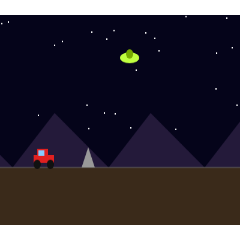
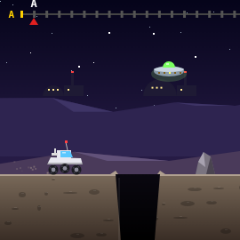
El Totterreny: paisatge de debò i un cotxe lunar amb sis rodes
Era el joc que es veia més pobre: uns triangles llisos de fons, un terra
d'un sol color i un cotxe fet de dos rectangles i dues rodes.

Ara el paisatge va per capes que es mouen a velocitats diferents: la
Terra al cel, una base amb cúpules a l'horitzó i dues serralades, i el
terra de la lluna amb pedretes i clots que passen. Els clots són foscos
i amb vora, les roques tenen cares, les mines fan pampallugues, el plat
volador té cúpula i llums, i les explosions són boles de foc. El cotxe
té sis rodes que boten, cabina, canó i antena, i aixeca pols. Les mides
de tot el que et pot matar són les mateixes d'abans.

Claude-Session: https://claude.ai/code/session_01KrPPCHVvtTXjrWEZj9T731

diff --git a/moon_patrol.html b/moon_patrol.html
@@ -120,16 +120,16 @@ function hideMsg(){document.getElementById('msg').style.display='none'}
 
 // ===== PALETES: cada control de pas canvia una mica el paisatge =====
 const PALETES=[
-  {sky:'#05041a',hill:'#241a3a',ground:'#3a2a1a'},
-  {sky:'#0a0326',hill:'#2a1440',ground:'#332018'},
-  {sky:'#000814',hill:'#152840',ground:'#28241a'},
-  {sky:'#140314',hill:'#3a1838',ground:'#301c22'},
+  {sky:'#05041a',horitzo:'#2a1e4a',hill:'#2e2450',hillLlum:'#3e3466',hill2:'#4a3a5a',hill2Llum:'#62527a',base:'#1e1a34',ground:'#7a6a5a',groundFosc:'#3a2e26',vora:'#b0a090'},
+  {sky:'#0a0326',horitzo:'#3a1a4a',hill:'#3a1a50',hillLlum:'#4e2a68',hill2:'#5a2a5a',hill2Llum:'#7a4278',base:'#22143a',ground:'#806058',groundFosc:'#3a2622',vora:'#c09888'},
+  {sky:'#000814',horitzo:'#123050',hill:'#183450',hillLlum:'#24486a',hill2:'#2a4a5a',hill2Llum:'#3e6478',base:'#10223a',ground:'#6a6e70',groundFosc:'#2a2e30',vora:'#a8b0b0'},
+  {sky:'#140314',horitzo:'#4a1a2a',hill:'#4a1a3a',hillLlum:'#622a50',hill2:'#6a2a3a',hill2Llum:'#8a4252',base:'#2a1022',ground:'#8a6050',groundFosc:'#3e2420',vora:'#c89880'},
 ];
 function paleta(){return PALETES[checkpoint%PALETES.length]}
 
 function makeStars(){
   stars=[];
-  for(let i=0;i<50;i++)stars.push({x:Math.random()*W,y:Math.random()*(GROUND_Y-40),tw:Math.random()*2000});
+  for(let i=0;i<90;i++)stars.push({x:Math.random()*W,y:Math.random()*(GROUND_Y-40),tw:Math.random()*2000});
 }
 
 // ===== TERRENY =====
@@ -359,31 +359,97 @@ function drawRecorregut(){
   x.fillStyle='#777';x.fillText('CURSA '+cursa,W-6,H-6);
   x.textAlign='left';
 }
-function drawBuggy(alt){
-  const gx=BUGGY_X,gy=GROUND_Y-alt;
-  x.fillStyle=invulnT>0&&Math.floor(invulnT/110)%2===0?'#844':'#e02020';
-  x.fillRect(gx,gy-16,34,10);
-  x.fillRect(gx+6,gy-24,18,10);
-  x.fillStyle='#8cf';x.fillRect(gx+8,gy-22,10,7);
-  x.fillStyle='#111';
-  x.beginPath();x.arc(gx+6,gy-4,6,0,7);x.fill();
-  x.beginPath();x.arc(gx+28,gy-4,6,0,7);x.fill();
+// ===== DIBUIX =====
+// El paisatge va per capes que es mouen a velocitats diferents (com més
+// lluny, més a poc a poc): la Terra al cel, una base amb cúpules a
+// l'horitzó, dues serralades i el terra de la lluna. Les capes de lluny es
+// pinten un sol cop en llenços de 960 px i després només s'enganxen.
+// Abans hi havia uns triangles llisos i un cotxe fet de dos rectangles.
+function capa(alt,fes){const c=document.createElement('canvas');c.width=960;c.height=alt;fes(c.getContext('2d'));return c}
+function serralada(g,alt,base,pics,col,llum,llavor){
+  let s=llavor;const r=()=>(s=(s*16807)%2147483647)/2147483647;
+  const pts=[];for(let i=0;i<=pics;i++)pts.push([i*960/pics,alt-base-r()*(alt-base-6)]);
+  pts[pics][1]=pts[0][1];                                     // que enganxi amb la del costat
+  g.fillStyle=col;g.beginPath();g.moveTo(0,alt);
+  for(const[px,py]of pts)g.lineTo(px,py);
+  g.lineTo(960,alt);g.fill();
+  // la cara il·luminada de cada pic
+  g.fillStyle=llum;
+  for(let i=0;i<pics;i++){const[a,b]=pts[i],[c,d]=pts[i+1];if(d>b){g.beginPath();g.moveTo(a,b);g.lineTo(c,d);g.lineTo(a+(c-a)*.35,Math.max(b,d));g.fill()}}
 }
+const CAPES={};
+function capes(pal){
+  const k=pal.sky;if(CAPES[k])return CAPES[k];
+  return CAPES[k]={
+    base:capa(40,g=>{                                         // la base lunar, molt lluny
+      for(let i=0;i<8;i++){const bx=40+i*120,r=10+(i*7)%12;
+        g.fillStyle=pal.base;g.beginPath();g.arc(bx,40,r,Math.PI,0);g.fill();g.fillRect(bx+r,28,22,12);g.fillRect(bx+r+8,14,3,26);
+        g.fillStyle='#ffe890';for(let j=0;j<3;j++)g.fillRect(bx-r/2+j*5,36-r/3,2,2);g.fillRect(bx+r+4,32,2,2);
+        g.fillStyle='#ff4040';g.fillRect(bx+r+8,12,3,2)}
+    }),
+    lluny:capa(90,g=>serralada(g,90,10,14,pal.hill,pal.hillLlum,7)),
+    prop:capa(60,g=>serralada(g,60,4,9,pal.hill2,pal.hill2Llum,31)),
+  };
+}
+function enganxa(img,despl,y){const o=-((despl%960)+960)%960;x.drawImage(img,Math.round(o),y);x.drawImage(img,Math.round(o)+960,y)}
+
+// el cotxe lunar: sis rodes (tres de cada costat, se'n veuen tres), cada una
+// amb la seva suspensió, la cabina de vidre i el canó a dalt
+function drawRover(gx,gy,cos,vidre,t,mirant=1,pampalluga=false){
+  x.save();x.translate(gx+17,0);x.scale(mirant,1);x.translate(-(gx+17),0);
+  const rodes=[4,17,30];
+  // les rodes, que boten cadascuna pel seu compte
+  const bot=rodes.map((r,i)=>t?Math.max(0,Math.sin(t*.025+i*2.1))*1.6:0);
+  x.strokeStyle='#6a6a78';x.lineWidth=2;
+  rodes.forEach((r,i)=>{x.beginPath();x.moveTo(gx+r,gy-6-bot[i]);x.lineTo(gx+r,gy-12);x.stroke()});
+  x.fillStyle=pampalluga?'#844':cos;
+  x.beginPath();x.moveTo(gx-3,gy-11);x.lineTo(gx+37,gy-11);x.lineTo(gx+35,gy-18);x.lineTo(gx+1,gy-19);x.closePath();x.fill();
+  x.fillStyle='rgba(0,0,0,.25)';x.fillRect(gx-3,gy-13,40,2);
+  // la cabina
+  x.fillStyle=pampalluga?'#a66':cos;x.fillRect(gx+8,gy-27,16,9);
+  x.fillStyle=vidre;x.beginPath();x.moveTo(gx+12,gy-26);x.lineTo(gx+23,gy-26);x.lineTo(gx+26,gy-19);x.lineTo(gx+12,gy-19);x.fill();
+  x.fillStyle='rgba(255,255,255,.6)';x.fillRect(gx+14,gy-25,4,1.5);
+  // el canó i l'antena
+  x.fillStyle='#ddd';x.fillRect(gx+2,gy-24,7,3);x.fillRect(gx+5,gy-29,2,6);
+  x.strokeStyle='#bbb';x.lineWidth=1;x.beginPath();x.moveTo(gx+20,gy-27);x.lineTo(gx+18,gy-36);x.stroke();
+  x.fillStyle=Math.floor(performance.now()/300)%2?'#ff4040':'#ffd040';x.fillRect(gx+17,gy-38,3,3);
+  // les rodes
+  rodes.forEach((r,i)=>{const ry=gy-5-bot[i];
+    x.fillStyle='#1a1a20';x.beginPath();x.arc(gx+r,ry,5.5,0,7);x.fill();
+    x.fillStyle='#8a8a98';x.beginPath();x.arc(gx+r,ry,2.4,0,7);x.fill();
+    const a=t*.04;x.fillStyle='#3a3a44';for(let k=0;k<4;k++)x.fillRect(gx+r+Math.cos(a+k*1.57)*4-1,ry+Math.sin(a+k*1.57)*4-1,2,2)});
+  x.restore();
+}
+function drawBuggy(alt){
+  drawRover(BUGGY_X,GROUND_Y-alt,'#e8e8f0','#5ac8ff',alt?0:playerZ,1,invulnT>0&&Math.floor(invulnT/110)%2===0);
+}
+let polsMP=[];
 function draw(){
-  const pal=paleta();
-  x.fillStyle=pal.sky;x.fillRect(0,0,W,H);
+  const pal=paleta(),ara=performance.now(),C=capes(pal);
+  // el cel
+  const gc=x.createLinearGradient(0,0,0,GROUND_Y);gc.addColorStop(0,pal.sky);gc.addColorStop(1,pal.horitzo);
+  x.fillStyle=gc;x.fillRect(0,0,W,GROUND_Y);
   for(const s of stars){
-    if(Math.sin((performance.now()+s.tw)/420)>-.3){x.fillStyle='#fff';x.fillRect(s.x|0,s.y|0,2,2)}
+    if(Math.sin((ara+s.tw)/420)>-.3){x.fillStyle=s.tw>1500?'#fff':'#9ab';x.fillRect(s.x|0,s.y|0,s.tw>1800?2:1,s.tw>1800?2:1)}
   }
-  // muntanyes de fons, es mouen mes a poc a poc (paral.laxi)
-  x.fillStyle=pal.hill;
-  const px=-(playerZ*0.25)%160;
-  for(let i=-1;i<5;i++){
-    x.beginPath();x.moveTo(px+i*160,GROUND_Y);x.lineTo(px+i*160+70,GROUND_Y-70);x.lineTo(px+i*160+160,GROUND_Y);x.fill();
-  }
-  // terra
-  x.fillStyle=pal.ground;x.fillRect(0,GROUND_Y,W,H-GROUND_Y);
-  x.strokeStyle='#666';x.beginPath();x.moveTo(0,GROUND_Y);x.lineTo(W,GROUND_Y);x.stroke();
+  // la Terra, mig il·luminada, que no es mou
+  {const ex=370,ey=62,r=22;
+    x.fillStyle='#1a4a9a';x.beginPath();x.arc(ex,ey,r,0,7);x.fill();
+    x.fillStyle='#3a9a4a';x.beginPath();x.ellipse(ex-6,ey-4,9,6,.5,0,7);x.fill();x.beginPath();x.ellipse(ex+8,ey+8,6,4,-.3,0,7);x.fill();
+    x.fillStyle='rgba(255,255,255,.55)';x.beginPath();x.ellipse(ex+2,ey-12,10,2.5,.2,0,7);x.fill();
+    x.fillStyle='rgba(0,0,10,.55)';x.beginPath();x.arc(ex+9,ey,r,Math.PI*.5,Math.PI*1.5,true);x.ellipse(ex+9,ey,r*.55,r,0,Math.PI*1.5,Math.PI*.5,true);x.fill();
+    x.strokeStyle='rgba(120,180,255,.35)';x.lineWidth=2;x.beginPath();x.arc(ex,ey,r+1.5,0,7);x.stroke()}
+  // les capes, de lluny a prop
+  enganxa(C.base,playerZ*.06,GROUND_Y-128);
+  enganxa(C.lluny,playerZ*.15,GROUND_Y-110);
+  enganxa(C.prop,playerZ*.35,GROUND_Y-60);
+  // el terra de la lluna, amb pedretes i cràters petits que passen
+  const gt=x.createLinearGradient(0,GROUND_Y,0,H);gt.addColorStop(0,pal.ground);gt.addColorStop(1,pal.groundFosc);
+  x.fillStyle=gt;x.fillRect(0,GROUND_Y,W,H-GROUND_Y);
+  x.fillStyle=pal.vora;x.fillRect(0,GROUND_Y,W,2);
+  for(let i=0;i<40;i++){const tx=((i*97-playerZ)%(W+40)+W+40)%(W+40)-20,ty=GROUND_Y+6+(i*29)%(H-GROUND_Y-10);
+    x.fillStyle='rgba(0,0,0,.22)';x.beginPath();x.ellipse(tx,ty,2+(i%4)*2,1+(i%3),0,0,7);x.fill();
+    x.fillStyle='rgba(255,255,255,.08)';x.fillRect(tx-1,ty-2,3,1)}
   drawRecorregut();
 
   for(const o of obstacles){
@@ -391,43 +457,63 @@ function draw(){
     const sx=o.x-playerZ;
     if(sx<-40||sx>W+20)continue;
     if(o.tipus==='crater'){
-      x.fillStyle=pal.sky;x.fillRect(sx,GROUND_Y,o.w,H-GROUND_Y);
+      // un clot de debò: fosc a dins, amb la vora aixecada
+      const gg=x.createLinearGradient(0,GROUND_Y,0,H);gg.addColorStop(0,'#0a0810');gg.addColorStop(1,'#000');
+      x.fillStyle=gg;x.beginPath();x.moveTo(sx,GROUND_Y);x.lineTo(sx+6,H);x.lineTo(sx+o.w-6,H);x.lineTo(sx+o.w,GROUND_Y);x.fill();
+      x.fillStyle=pal.vora;x.beginPath();x.moveTo(sx-6,GROUND_Y);x.lineTo(sx,GROUND_Y-4);x.lineTo(sx+3,GROUND_Y);x.fill();
+      x.beginPath();x.moveTo(sx+o.w-3,GROUND_Y);x.lineTo(sx+o.w,GROUND_Y-4);x.lineTo(sx+o.w+6,GROUND_Y);x.fill();
+      x.fillStyle='rgba(255,255,255,.07)';x.fillRect(sx+3,GROUND_Y+4,2,H-GROUND_Y-4);
     } else if(o.tipus==='rock'){
-      x.fillStyle='#999';
-      x.beginPath();x.moveTo(sx,GROUND_Y);x.lineTo(sx+o.w/2,GROUND_Y-26);x.lineTo(sx+o.w,GROUND_Y);x.fill();
+      // una roca amb cares: una de clara, una de fosca
+      x.fillStyle='#7a7480';x.beginPath();x.moveTo(sx,GROUND_Y);x.lineTo(sx+3,GROUND_Y-14);x.lineTo(sx+9,GROUND_Y-25);x.lineTo(sx+17,GROUND_Y-20);x.lineTo(sx+o.w,GROUND_Y);x.fill();
+      x.fillStyle='#a8a2b0';x.beginPath();x.moveTo(sx+3,GROUND_Y-14);x.lineTo(sx+9,GROUND_Y-25);x.lineTo(sx+11,GROUND_Y-8);x.fill();
+      x.fillStyle='#4a4450';x.beginPath();x.moveTo(sx+17,GROUND_Y-20);x.lineTo(sx+o.w,GROUND_Y);x.lineTo(sx+12,GROUND_Y);x.fill();
     } else if(o.tipus==='mine'){
-      x.fillStyle='#ff5030';
-      x.beginPath();x.arc(sx+o.w/2,GROUND_Y-8,9,0,7);x.fill();
+      // la mina: una cúpula amb un llum que fa pampallugues
+      const cx=sx+o.w/2;
+      x.fillStyle='#4a4a54';x.beginPath();x.arc(cx,GROUND_Y,10,Math.PI,0);x.fill();
+      x.fillStyle='#6a6a78';x.beginPath();x.arc(cx-3,GROUND_Y-4,4,Math.PI,0);x.fill();
+      x.fillStyle='#333';for(let k=-1;k<=1;k++)x.fillRect(cx+k*6-1,GROUND_Y-12-(k?0:2),2,4);
+      const on=Math.floor((ara+o.x)/250)%2;x.fillStyle=on?'#ff3020':'#601010';x.beginPath();x.arc(cx,GROUND_Y-12,3,0,7);x.fill();
+      if(on){x.fillStyle='rgba(255,60,30,.25)';x.beginPath();x.arc(cx,GROUND_Y-12,8,0,7);x.fill()}
     } else if(o.tipus==='buggy'){
-      x.fillStyle='#40c0ff';x.fillRect(sx,GROUND_Y-14,o.w,10);
-      x.fillStyle='#111';x.beginPath();x.arc(sx+5,GROUND_Y-3,5,0,7);x.fill();
-      x.beginPath();x.arc(sx+o.w-5,GROUND_Y-3,5,0,7);x.fill();
+      drawRover(sx-4,GROUND_Y,'#c03838','#ffb040',o.x,-1);
     }
   }
   for(const e of skyEnemies){
     if(!e.viu)continue;
     const sx=e.x-playerZ;
     if(sx<-30||sx>W+20)continue;
-    x.fillStyle='#c0ff40';
-    x.beginPath();x.ellipse(sx,e.y,16,7,0,0,7);x.fill();
-    x.fillStyle='#7a0';x.beginPath();x.arc(sx,e.y-5,6,0,7);x.fill();
+    // el plat volador, amb la cúpula i els llums que corren
+    x.fillStyle='rgba(160,255,120,.18)';x.beginPath();x.ellipse(sx,e.y+3,20,9,0,0,7);x.fill();
+    x.fillStyle='#8a9aa8';x.beginPath();x.ellipse(sx,e.y,17,6,0,0,7);x.fill();
+    x.fillStyle='#c8d4e0';x.beginPath();x.ellipse(sx,e.y-2,17,3,0,0,7);x.fill();
+    x.fillStyle='#7aff60';x.beginPath();x.arc(sx,e.y-4,7,Math.PI,0);x.fill();
+    x.fillStyle='rgba(255,255,255,.6)';x.fillRect(sx-3,e.y-9,3,2);
+    for(let k=0;k<5;k++){const on=(Math.floor(ara/120)+k)%5===0;x.fillStyle=on?'#ffff60':'#806020';x.fillRect(sx-12+k*6,e.y+1,2,2)}
   }
-  x.fillStyle='#ff4040';
-  for(const b of bombs)if(!b.tocat)x.fillRect(b.x-playerZ-2,b.y-4,4,8);
-  x.fillStyle='#ffe060';
-  for(const b of eBullets)x.fillRect(b.x-playerZ-3,GROUND_Y-8,6,3);
-  x.fillStyle='#fff';
-  for(const b of bullets)x.fillRect(b.x-playerZ,b.y,8,3);
-  x.fillStyle='#ff0';
-  for(const b of diagBullets)x.fillRect(b.x-playerZ,b.y,4,4);
+  // bombes, trets enemics i els teus trets, amb una mica de resplendor
+  for(const b of bombs)if(!b.tocat){const bx=b.x-playerZ;x.fillStyle='#ff4040';x.beginPath();x.ellipse(bx,b.y,3,5,0,0,7);x.fill();x.fillStyle='#ffd0a0';x.fillRect(bx-1,b.y-3,2,2)}
+  for(const b of eBullets){const bx=b.x-playerZ;x.fillStyle='rgba(255,220,80,.35)';x.fillRect(bx-5,GROUND_Y-10,10,7);x.fillStyle='#ffe060';x.fillRect(bx-3,GROUND_Y-8,6,3)}
+  for(const b of bullets){const bx=b.x-playerZ;x.fillStyle='rgba(255,255,255,.3)';x.fillRect(bx-6,b.y,8,3);x.fillStyle='#fff';x.fillRect(bx,b.y,8,3)}
+  for(const b of diagBullets){const bx=b.x-playerZ;x.fillStyle='rgba(255,255,0,.35)';x.fillRect(bx-1,b.y-1,6,6);x.fillStyle='#ff0';x.fillRect(bx,b.y,4,4)}
 
-  drawBuggy(alcadaSalt());
+  // la pols que aixequen les rodes
+  const alt=alcadaSalt();
+  if(state==='play'&&!alt&&Math.random()<speed/600)polsMP.push({x:BUGGY_X-2,y:GROUND_Y-2,vx:-40-Math.random()*60,vy:-20-Math.random()*30,t:.6});
+  for(const p of polsMP){p.x+=p.vx/60;p.y+=p.vy/60;p.vy+=1.5;p.t-=1/60;x.globalAlpha=Math.max(0,p.t);x.fillStyle=pal.vora;x.fillRect(p.x,p.y,2,2)}
+  x.globalAlpha=1;polsMP=polsMP.filter(p=>p.t>0);
+  // l'ombra del cotxe quan salta
+  if(alt){x.fillStyle='rgba(0,0,0,.35)';x.beginPath();x.ellipse(BUGGY_X+17,GROUND_Y+1,18*(1-alt/JUMP_H*.5),2.5,0,0,7);x.fill()}
+  drawBuggy(alt);
 
+  // les explosions: una bola de foc que s'apaga i espurnes
   for(const b of booms){
     const k=b.t/400,r=(b.big?26:14)*(0.4+k);
-    x.strokeStyle=['#fff','#ffd000','#ff5000'][Math.floor(b.t/70)%3];
-    x.lineWidth=2;x.globalAlpha=1-k;
-    x.beginPath();x.arc(b.x,b.y,r,0,7);x.stroke();
+    x.globalAlpha=Math.max(0,1-k);
+    const gb=x.createRadialGradient(b.x,b.y,0,b.x,b.y,r);gb.addColorStop(0,'#fff8c0');gb.addColorStop(.4,'#ffb020');gb.addColorStop(1,'rgba(255,60,0,0)');
+    x.fillStyle=gb;x.beginPath();x.arc(b.x,b.y,r,0,7);x.fill();
+    x.fillStyle='#ffd040';for(let i=0;i<8;i++){const a=i*.785+b.x,d=r*1.2;x.fillRect(b.x+Math.cos(a)*d,b.y+Math.sin(a)*d,2,2)}
     x.globalAlpha=1;
   }
   booms.forEach(b=>b.t+=16.7);

diff --git a/sw.js b/sw.js
@@ -1,4 +1,4 @@
-const CACHE = 'jocs-v140';
+const CACHE = 'jocs-v141';
 const FILES = [
   '/Jocs/',
   '/Jocs/index.html',
